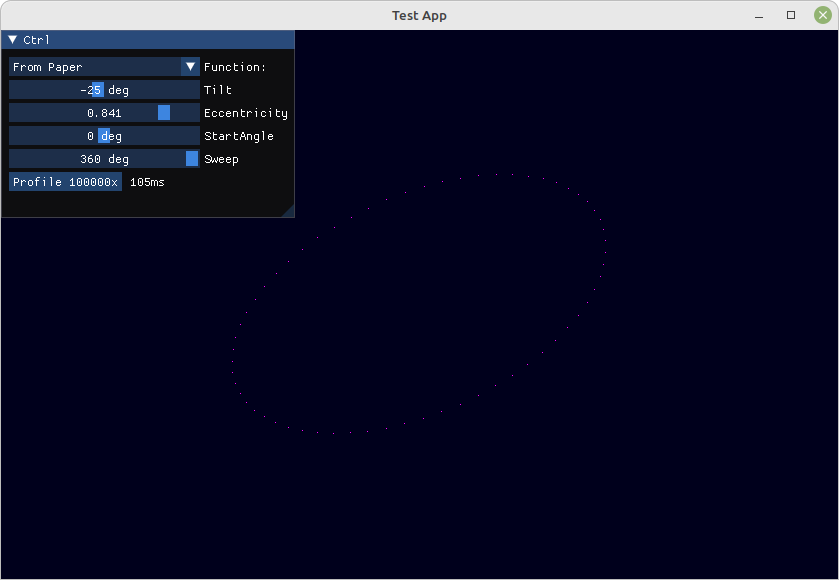
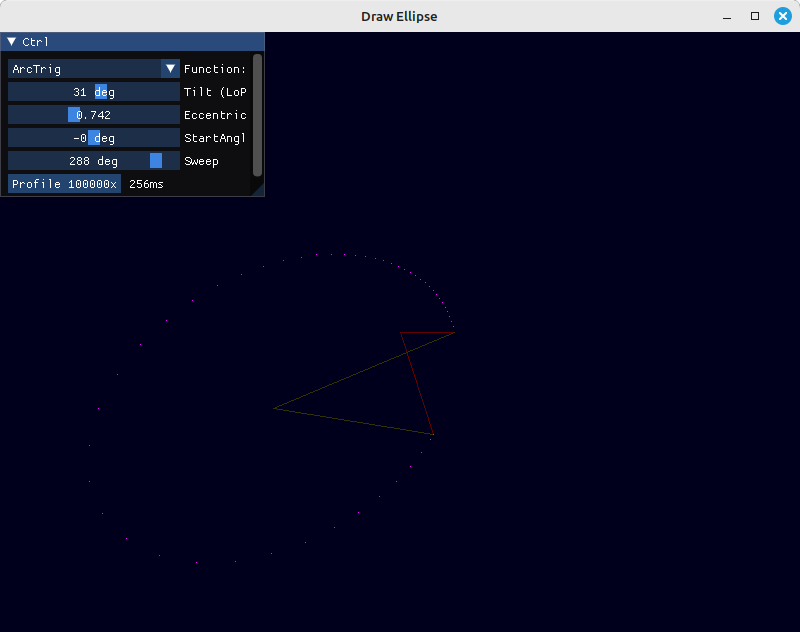
Some fixes, ArcRadiusFromFocal apears to now work correctly.

diff --git a/DrawEllipse/EllipseFormula.cs b/DrawEllipse/EllipseFormula.cs
@@ -60,8 +60,8 @@ public class EllipseFormula
         var a = semiMaj;
         var b = semiMin;
         var c = Math.Sqrt((a * a) - (b * b));
-        var xc = c * Math.Cos(tilt); //this is the center position of the ellipse;
-        var yc = c * Math.Sin(tilt);
+        var xc = -c * Math.Cos(tilt); //this is the center position of the ellipse;
+        var yc = -c * Math.Sin(tilt);
         
         var deltaPhi = 2 * Math.PI / (n - 1);
         var ct = Math.Cos(tilt);
@@ -303,7 +303,7 @@ public class EllipseFormula
         double end = start + sweep;
         double Δθ = 2 * Math.PI / (numPoints - 1) * Math.Sign(sweep); //arc increment for a whole circle
         numPoints = (int)Math.Abs(sweep / Δθ); //numpoints for just the arc
-        DVec.Vector2[] points = new DVec.Vector2[numPoints + 1];
+        Vector2[] points = new Vector2[numPoints + 1];
         
         double linEcc = Math.Sqrt(semiMaj * semiMaj - b * b);
         double θ = 0;
@@ -315,16 +315,16 @@ public class EllipseFormula
             θ = start + Δθ * i;
             x = semiMaj * Math.Cos(θ);
             y = semiMaj * Math.Sin(θ);
-            points[i] = new DVec.Vector2(x, y);
+            points[i] = new Vector2(x, y);
         }
         x = semiMaj * Math.Cos(end);
         y = semiMaj * Math.Sin(end);
-        points[numPoints] = new DVec.Vector2(x, y);
+        points[numPoints] = new Vector2(x, y);
 
         Matrix mirMtx = Matrix.IDMirror(true, false);
-        Matrix scalemtx = Matrix.IDScale(1,  1 - eccentricity);
+        Matrix scalemtx = Matrix.IDScale(1,  b/semiMaj);
         Matrix moveMtx = Matrix.IDTranslate(-linEcc, 0);
-        Matrix rotMtx = Matrix.IDRotate(tilt);
+        Matrix rotMtx = Matrix.IDRotate(-tilt);
         Matrix endMtx = moveMtx * scalemtx * rotMtx;
         points = endMtx.Transform(points);
         
@@ -347,8 +347,13 @@ public class EllipseFormula
         
         //convert ellipse angles to circle angles. 
         double b = semiMaj * Math.Sqrt(1 - eccentricity * eccentricity);
+        
+        
         //start = Math.Atan2(b * Math.Cos(start), semiMaj * Math.Sin(start));
         //sweep = Math.Atan2(b * Math.Cos(sweep), semiMaj * Math.Sin(sweep));
+
+        
+        
         double end = start + sweep;
         double Δθ = 2 * Math.PI / (numPoints - 1) * Math.Sign(sweep); //arc increment for a whole circle
         numPoints = (int)Math.Abs(sweep / Δθ); //numpoints for just the arc
@@ -389,7 +394,7 @@ public class EllipseFormula
     /// <param name="sweep"></param>
     /// <param name="numPoints"></param>
     /// <returns></returns>
-    public static DVec.Vector2[] CheatsCircle(double semiMaj, double eccentricity, double tilt, double start,
+    public static Vector2[] CheatsCircle(double semiMaj, double eccentricity, double tilt, double start,
         double sweep, int numPoints)
     {
         
@@ -400,7 +405,7 @@ public class EllipseFormula
         double end = start + sweep;
         double Δθ = 2 * Math.PI / (numPoints - 1) * Math.Sign(sweep); //arc increment for a whole circle
         numPoints = (int)Math.Abs(sweep / Δθ); //numpoints for just the arc
-        DVec.Vector2[] points = new DVec.Vector2[numPoints + 1];
+        Vector2[] points = new Vector2[numPoints + 1];
         
         double linEcc = Math.Sqrt(semiMaj * semiMaj - b * b);
         double θ = 0;
@@ -411,11 +416,11 @@ public class EllipseFormula
         {
             x -= Δθ * y;
             y += Δθ * x;
-            points[i] = new DVec.Vector2(x, y);
+            points[i] = new Vector2(x, y);
         }
         x = semiMaj * Math.Cos(end);
         y = semiMaj * Math.Sin(end);
-        points[numPoints] = new DVec.Vector2(x, y);
+        points[numPoints] = new Vector2(x, y);
         
         Matrix scalemtx = Matrix.IDScale(1,  1 - eccentricity);
         Matrix moveMtx = Matrix.IDTranslate(-linEcc, 0);
@@ -469,20 +474,20 @@ public class EllipseFormula
         double θ = 0;
         double x = 0;
         double y = 0;
-        //convert ellipse angles to circle angles. 
+        
         double b = semiMaj * Math.Sqrt(1 - eccentricity * eccentricity);
         double linEcc = Math.Sqrt(semiMaj * semiMaj - b * b);
         
         //convert focal angle to center angle
-        x = linEcc * Math.Cos(-start);
-        y = linEcc * Math.Sin(-start);
+        x = linEcc * Math.Cos(start);
+        y = linEcc * Math.Sin(start);
         //shift y from ellipse to circle:
         y = y * -(1 - eccentricity);
         start = Math.Atan2(y, x);
         
         //convert focal angle to center angle
-        x = linEcc * Math.Cos(-sweep);
-        y = linEcc * Math.Sin(-sweep);
+        x = linEcc * Math.Cos(sweep);
+        y = linEcc * Math.Sin(sweep);
         //shift y from ellipse to circle:
         y = y * -(1 - eccentricity);
         sweep = Math.Atan2(y, x);
@@ -567,7 +572,7 @@ public class EllipseFormula
 
 
     /// <summary>
-    /// Positions done using normal trig. 
+    /// Positions done using radius from focal. 
     /// </summary>
     /// <param name="semiMaj"></param>
     /// <param name="eccentricity"></param>
@@ -576,7 +581,7 @@ public class EllipseFormula
     /// <param name="sweep"></param>
     /// <param name="numPoints"></param>
     /// <returns></returns>
-    public static Vector2[] ArcTrig(double semiMaj, double eccentricity, double tilt, double start, double sweep,
+    public static Vector2[] ArcRadiusFromFocal(double semiMaj, double eccentricity, double tilt, double start, double sweep,
         int numPoints)
     {                    
         var _semiMinor = semiMaj * Math.Sqrt(1 - eccentricity * eccentricity);
@@ -585,29 +590,54 @@ public class EllipseFormula
         double θ = 0;
         double x = 0;
         double y = 0;
-        
+        double r = RadiusFromFocal(semiMaj, eccentricity, tilt, start);
         double Δθ = 2 * Math.PI / (numPoints - 1) * Math.Sign(sweep); 
         numPoints = (int)Math.Abs(sweep / Δθ) + 1; //numpoints for just the arc
         
         Vector2[] points = new Vector2[numPoints + 1];
         for (int i = 0; i < numPoints; i++)
         {
-            θ = -start - Δθ * i;
-            x = semiMaj * Math.Cos(θ);
-            y = semiMaj * Math.Sin(θ);
+            θ = start + Δθ * i;
+            r = RadiusFromFocal(semiMaj, eccentricity, tilt, θ);
+            x = r * Math.Cos(θ);
+            y = r * Math.Sin(θ);
             points[i] = new Vector2(x, y);
         }
         //lastPoint:
-        θ = -start - sweep;
+        θ = start + sweep;
+        r = RadiusFromFocal(semiMaj, eccentricity, tilt, θ);
         points[^1] = new Vector2()
         {
-            X = semiMaj * Math.Cos(θ),
-            Y = semiMaj * Math.Sin(θ)
+            X = r * Math.Cos(θ),
+            Y = r * Math.Sin(θ)
         };
 
         return points;
 
 
 
+    }
+    
+    /// <summary>
+    /// https://en.wikipedia.org/wiki/Ellipse#Polar_form_relative_to_focus
+    /// This is a True Anomaly
+    /// </summary>
+    /// <param name="a">semi major</param>
+    /// <param name="e">eccentricy</param>
+    /// <param name="phi">tilt, angle from focal 1 to focal 2 (or center)</param>
+    /// <param name="theta">angle</param>
+    /// <returns></returns>
+    public static double RadiusFromFocal(double a, double e, double phi, double theta)
+    {
+        double dividend = a * (1 - e * e);
+        double divisor = 1 + e * Math.Cos(theta - phi);
+        double quotent = dividend / divisor;
+        return quotent;
+    }
+
+
+    public static double RadiusFromCenter(double b, double e,double phi, double theta)
+    {
+        return b / Math.Sqrt(1 - (e * Math.Cos(theta - phi)));
     }
 }

diff --git a/DrawEllipse/Program.cs b/DrawEllipse/Program.cs
@@ -248,11 +248,20 @@ public class Program
         }
 
         private float _tiltAngle = 0;
+        private float GetTilt {get {return _tiltAngle * -1;}}
         private float _eccentricy = 0.15f;
         private double _semiMajor = 200;
         private double _semiMinor = 200 * Math.Sqrt(1 - 0.15f * 0.15f);
         private float _startAngle = 0;
+        private float GetStartAngle
+        {
+            get { return _startAngle * -1; }
+        }
         private float _sweepAngle = 1.57079632679f;
+        private float GetSweepAngle
+        {
+            get { return _sweepAngle * -1; }
+        }
         private Vector2 _startPos = new Vector2();
         private Vector2 _endPos = new Vector2();
         private Vector2 _focalPoint = new Vector2(0, 0);
@@ -278,7 +287,7 @@ public class Program
             "Cheats Circle AntiCockwise",
             "AnglesFromFocal",
             "Using Positions",
-            "ArcTrig"
+            "ArcRadiusFromFocal"
         };
 
         private string _errorMsg = "";
@@ -291,10 +300,10 @@ public class Program
             {
                 if (ImGui.Combo("Function:", ref _selectFuncIndex, _funcNames, _funcNames.Length))
                 {
-                    
+                    OnChange();
                 }
 
-                if (ImGui.SliderAngle("Tilt", ref _tiltAngle))
+                if (ImGui.SliderAngle("Tilt (LoP)", ref _tiltAngle))
                 {
                     OnChange();
                 }
@@ -350,8 +359,8 @@ public class Program
 
         private void TiltAngle()
         {
-            _ctrPoint.X = _linEcc * Math.Cos(_tiltAngle);
-            _ctrPoint.Y = _linEcc * Math.Sin(_tiltAngle);
+            _ctrPoint.X = -_linEcc * Math.Cos(GetTilt);
+            _ctrPoint.Y = -_linEcc * Math.Sin(GetTilt);
             _angleLinesCtr[1] = new SDL.SDL_Point()
             {
                 x = (int)_ctrPoint.X,
@@ -361,9 +370,9 @@ public class Program
         
         private void StartAngle()
         {
-            var r = RadiusFromFocal(_semiMajor, _eccentricy, _tiltAngle, _startAngle);
-            _startPos.X = r * Math.Cos(-_startAngle);
-            _startPos.Y = r * Math.Sin(-_startAngle);
+            var r = EllipseFormula.RadiusFromFocal(_semiMajor, _eccentricy, GetTilt, GetStartAngle);
+            _startPos.X = r * Math.Cos(GetStartAngle);
+            _startPos.Y = r * Math.Sin(GetStartAngle);
             _angleLinesFcl[0] = new SDL.SDL_Point()
             {
                 x = (int)_startPos.X,
@@ -377,8 +386,8 @@ public class Program
 
         private void SweepAngle()
         {
-            double endAng = _startAngle + _sweepAngle;
-            var r = RadiusFromFocal(_semiMajor, _eccentricy, _tiltAngle, endAng);
+            double endAng = GetStartAngle + GetSweepAngle;
+            var r = EllipseFormula.RadiusFromFocal(_semiMajor, _eccentricy, GetTilt, endAng);
                     
             _endPos.X = r * Math.Cos(endAng);
             _endPos.Y = r * Math.Sin(endAng);
@@ -403,46 +412,46 @@ public class Program
                 {
                     case 0:
                     {
-                        _points = EllipseFormula.EllipseArrayFromPaper(_semiMajor, _semiMinor, _tiltAngle, 64);
+                        _points = EllipseFormula.EllipseArrayFromPaper(_semiMajor, _semiMinor, GetTilt, 64);
                     }
                         break;
                     case 1:
                     {
-                        _points = EllipseFormula.EllipseFullMtxSweep(_semiMajor, _eccentricy, _tiltAngle, _startAngle,
-                            _sweepAngle, 64);
+                        _points = EllipseFormula.EllipseFullMtxSweep(_semiMajor, _eccentricy, GetTilt, GetStartAngle,
+                            GetSweepAngle, 64);
                     }
                         break;
                     case 2:
                     {
-                        _points = EllipseFormula.EllipseFullMtxSweepAntiCockwise(_semiMajor, _eccentricy, _tiltAngle,
-                            _startAngle, _sweepAngle, 64);
+                        _points = EllipseFormula.EllipseFullMtxSweepAntiCockwise(_semiMajor, _eccentricy, GetTilt,
+                            GetStartAngle, GetSweepAngle, 64);
                     }
                         break;
                     case 3:
                     {
-                        _points = EllipseFormula.CheatsCircle(_semiMajor, _eccentricy, _tiltAngle, _startAngle, _sweepAngle, 64);
+                        _points = EllipseFormula.CheatsCircle(_semiMajor, _eccentricy, GetTilt, GetStartAngle, GetSweepAngle, 64);
                     }
                         break;
                     case 4:
                     {
-                        _points = EllipseFormula.CheatsCircleAntiClockwise(_semiMajor, _eccentricy, _tiltAngle, _startAngle,
-                            _sweepAngle, 64);
+                        _points = EllipseFormula.CheatsCircleAntiClockwise(_semiMajor, _eccentricy, GetTilt, GetStartAngle,
+                            GetSweepAngle, 64);
                     }
                         break;
                     case 5:
                     {
-                        _points = EllipseFormula.ArcWithFocalAngle(_semiMajor, _eccentricy, _tiltAngle, _startAngle, _sweepAngle,
+                        _points = EllipseFormula.ArcWithFocalAngle(_semiMajor, _eccentricy, GetTilt, GetStartAngle, GetSweepAngle,
                             64);
                     }
                         break;
                     case 6:
                     {
-                        _points = EllipseFormula.ArcWithFocalAngle(_semiMajor, _eccentricy, _tiltAngle, _startPos, _endPos, 64);
+                        _points = EllipseFormula.ArcWithFocalAngle(_semiMajor, _eccentricy, GetTilt, _startPos, _endPos, 64);
                     }
                         break;
                     case 7:
                     {
-                        _points = EllipseFormula.ArcTrig(_semiMajor, _eccentricy, _tiltAngle, _startAngle, _sweepAngle, 64);
+                        _points = EllipseFormula.ArcRadiusFromFocal(_semiMajor, _eccentricy, GetTilt, GetStartAngle, GetSweepAngle, 64);
                     }
                         break;
                 }
@@ -519,27 +528,6 @@ public class Program
         Middle
     }
     
-    /// <summary>
-    /// https://en.wikipedia.org/wiki/Ellipse#Polar_form_relative_to_focus
-    /// This is a True Anomaly
-    /// </summary>
-    /// <param name="a">semi major</param>
-    /// <param name="e">eccentricy</param>
-    /// <param name="phi">tilt, angle from focal 1 to focal 2 (or center)</param>
-    /// <param name="theta">angle</param>
-    /// <returns></returns>
-    public static double RadiusFromFocal(double a, double e, double phi, double theta)
-    {
-        double dividend = a * (1 - e * e);
-        double divisor = 1 - e * Math.Cos(theta - phi);
-        double quotent = dividend / divisor;
-        return quotent;
-    }
 
-
-    public static double RadiusFromCenter(double b, double e,double phi, double theta)
-    {
-        return b / Math.Sqrt(1 - (e * Math.Cos(theta - phi)));
-    }
     
 }
